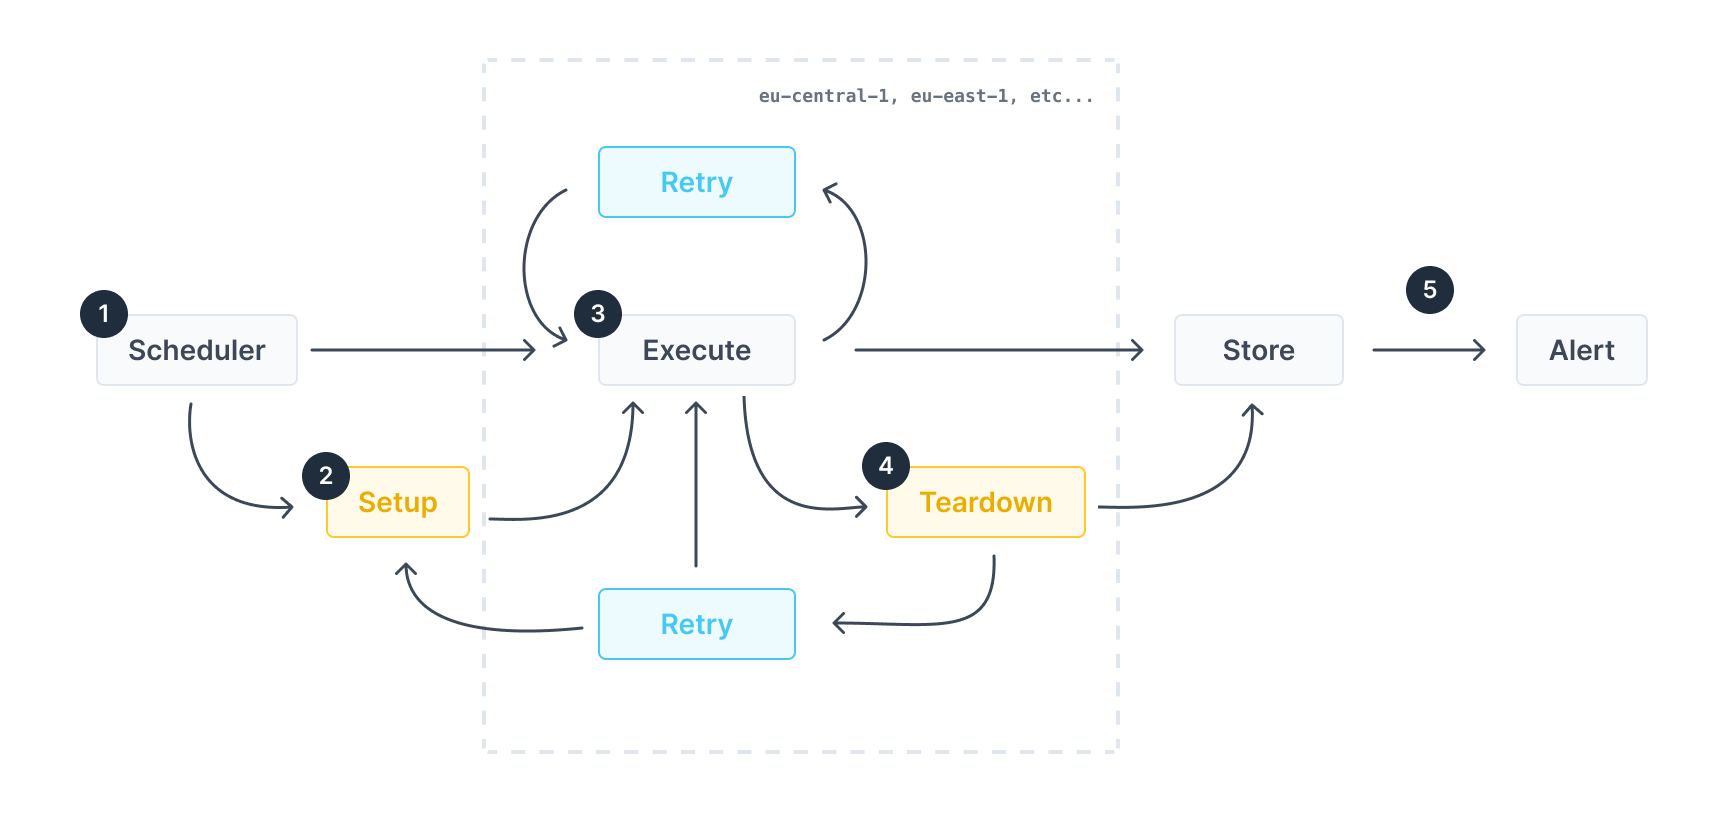
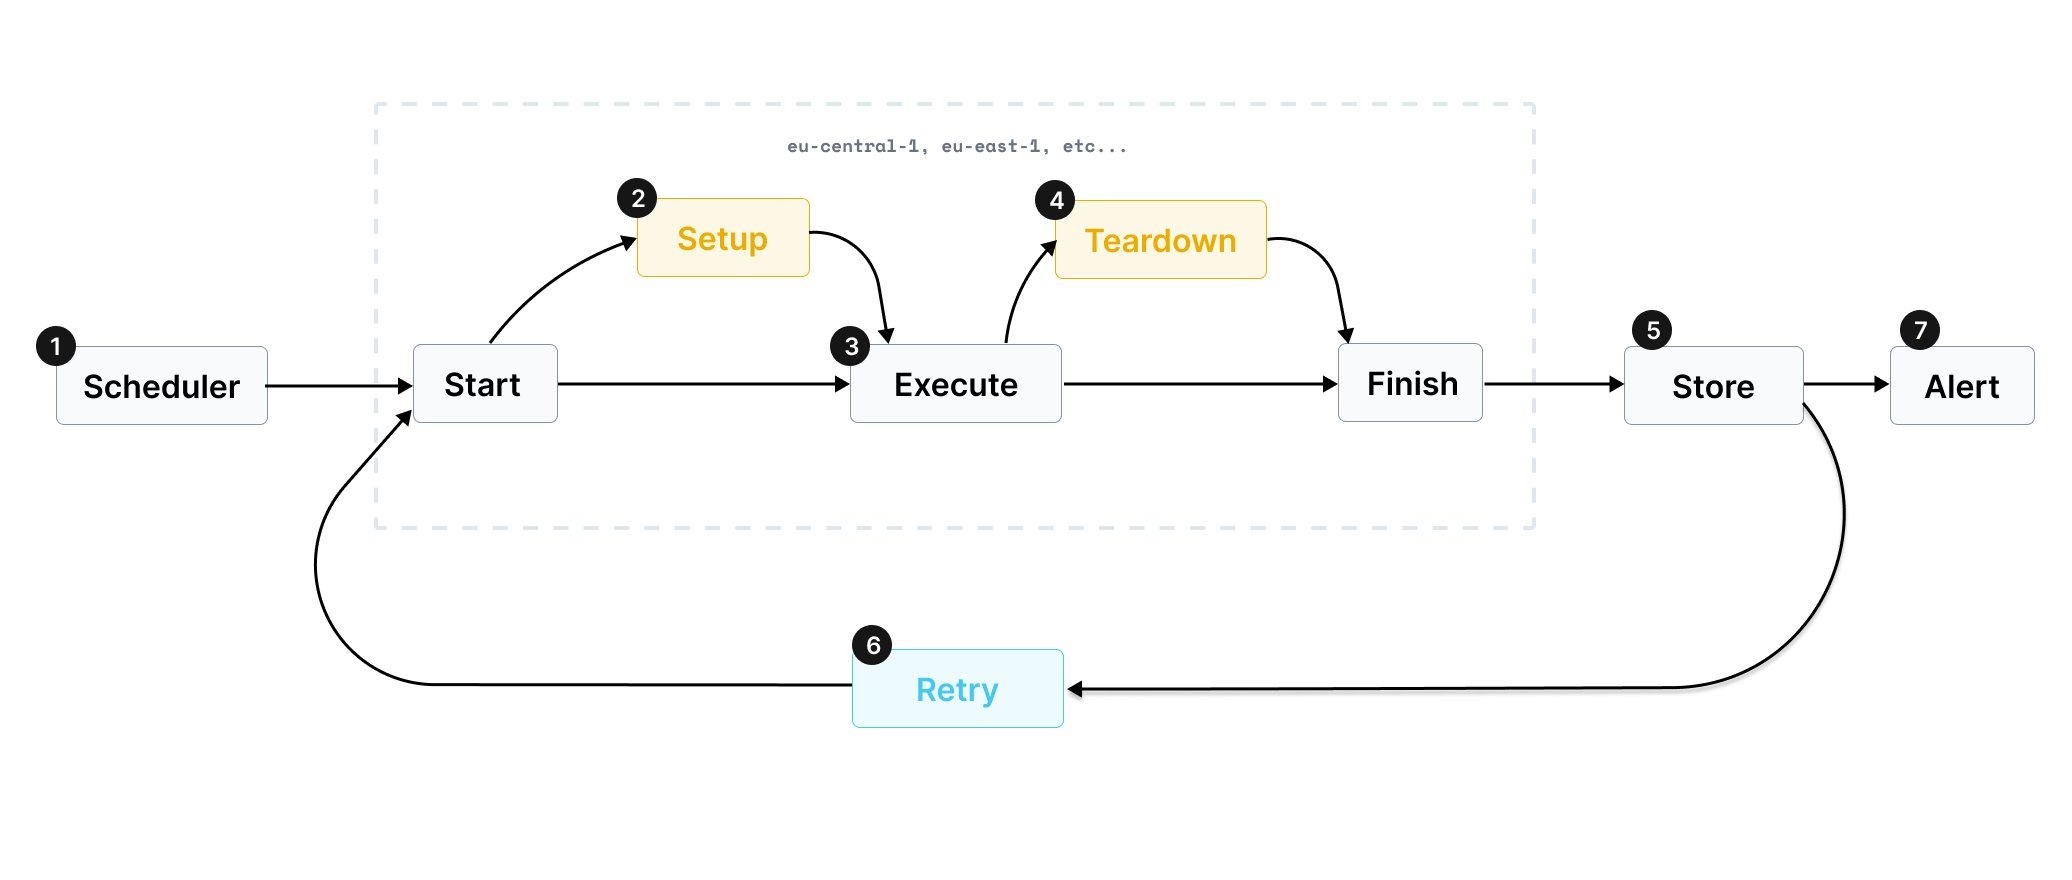
feat(docs): update how we run checks with the new retries flow [sc-14873]

diff --git a/site/content/docs/monitoring/_index.md b/site/content/docs/monitoring/_index.md
@@ -31,8 +31,10 @@ A picture is a thousand words:
 
 1. A cron process picks up a check based on its schedule, say every 5 minutes. It validates that the check is not in progress at the moment to avoid race conditions. The check is put into a queue to be run from the next configured data center location.
 2. If the check is an API check and has a [setup script](/docs/api-checks/setup-teardown-scripts/), the setup script is executed. 
-3. The check is executed. If the check fails and "double check" is enabled, the check is retried once in a different location.
-The other location is picked, at random, from all the configured locations. If only one location has been selected, then the other location is picked at random from all available locations. Setup scripts are executed again during the retry.
+3. The check is executed.
 4. If the check is an API check and has a [teardown script](/docs/api-checks/setup-teardown-scripts/), the teardown script is executed.
 Teardown scripts are run *before* any assertions are validated.
-5. The result is stored in our central database and any alerts are sent where applicable.
+5. The result is stored in our central database.
+6. If the check fails and “double-check” is enabled, the process starts over from a different location. The other location is picked, at random, from all the configured locations. If only one location has been selected, then the other location is picked at random from all available locations. Any setup & teardown scripts are run again as part of the process.
+7. When applicable, alerts are sent out in requested channels.
+
